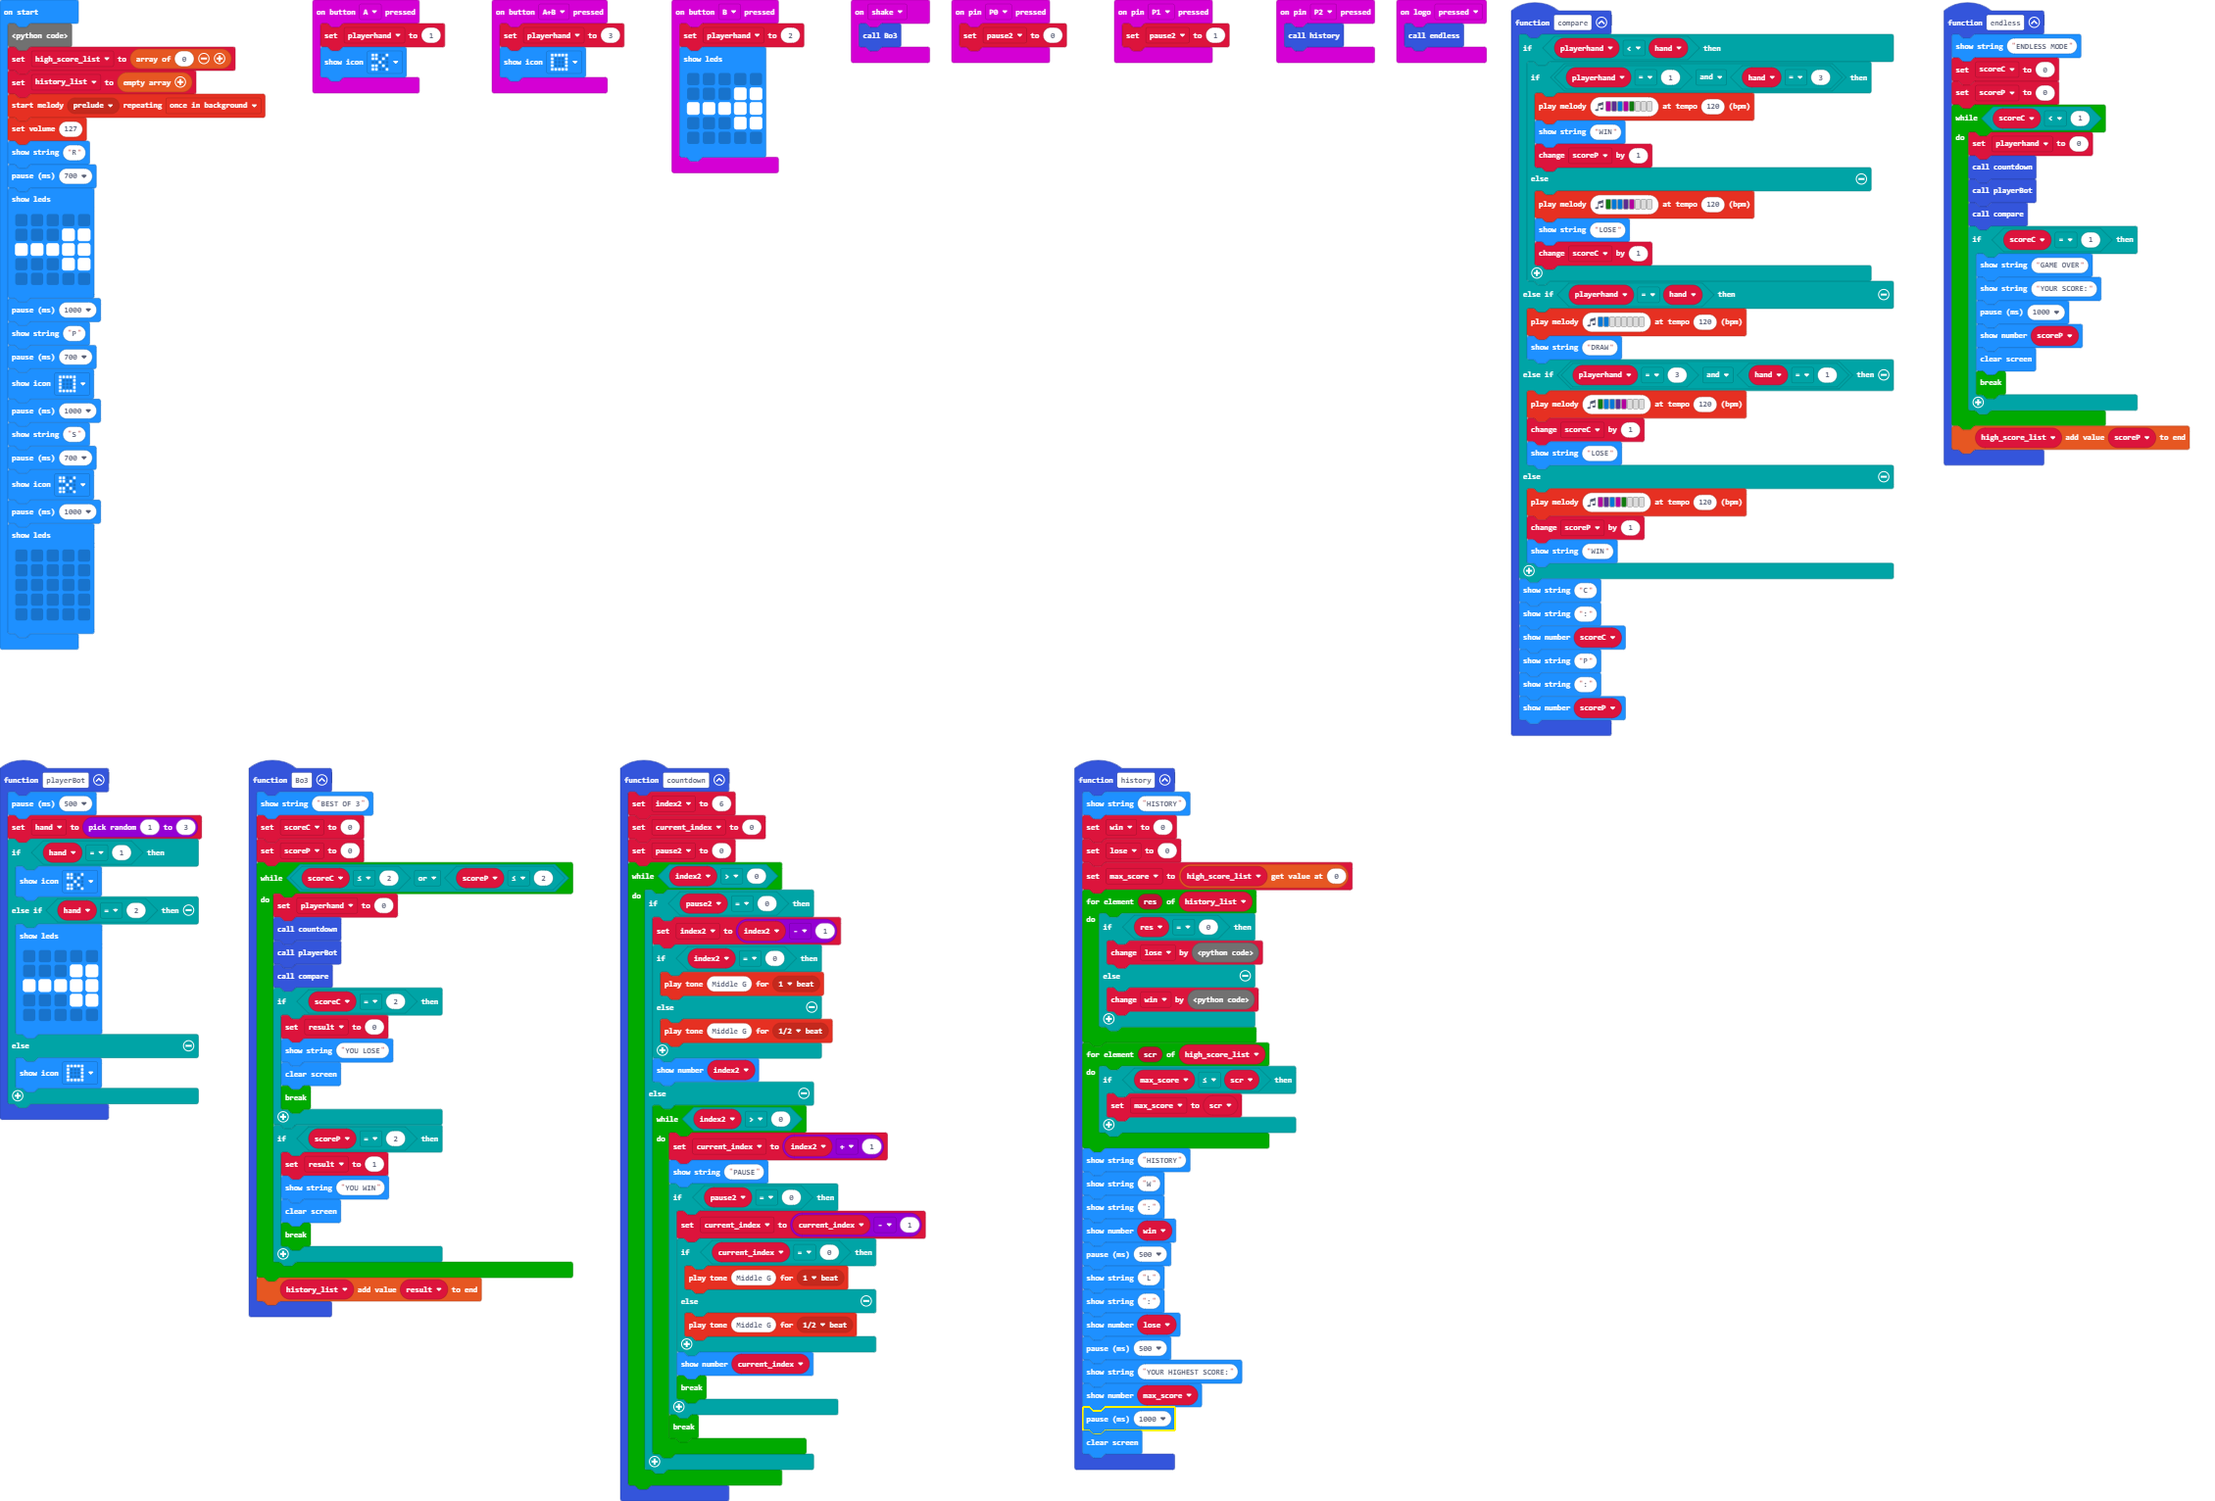
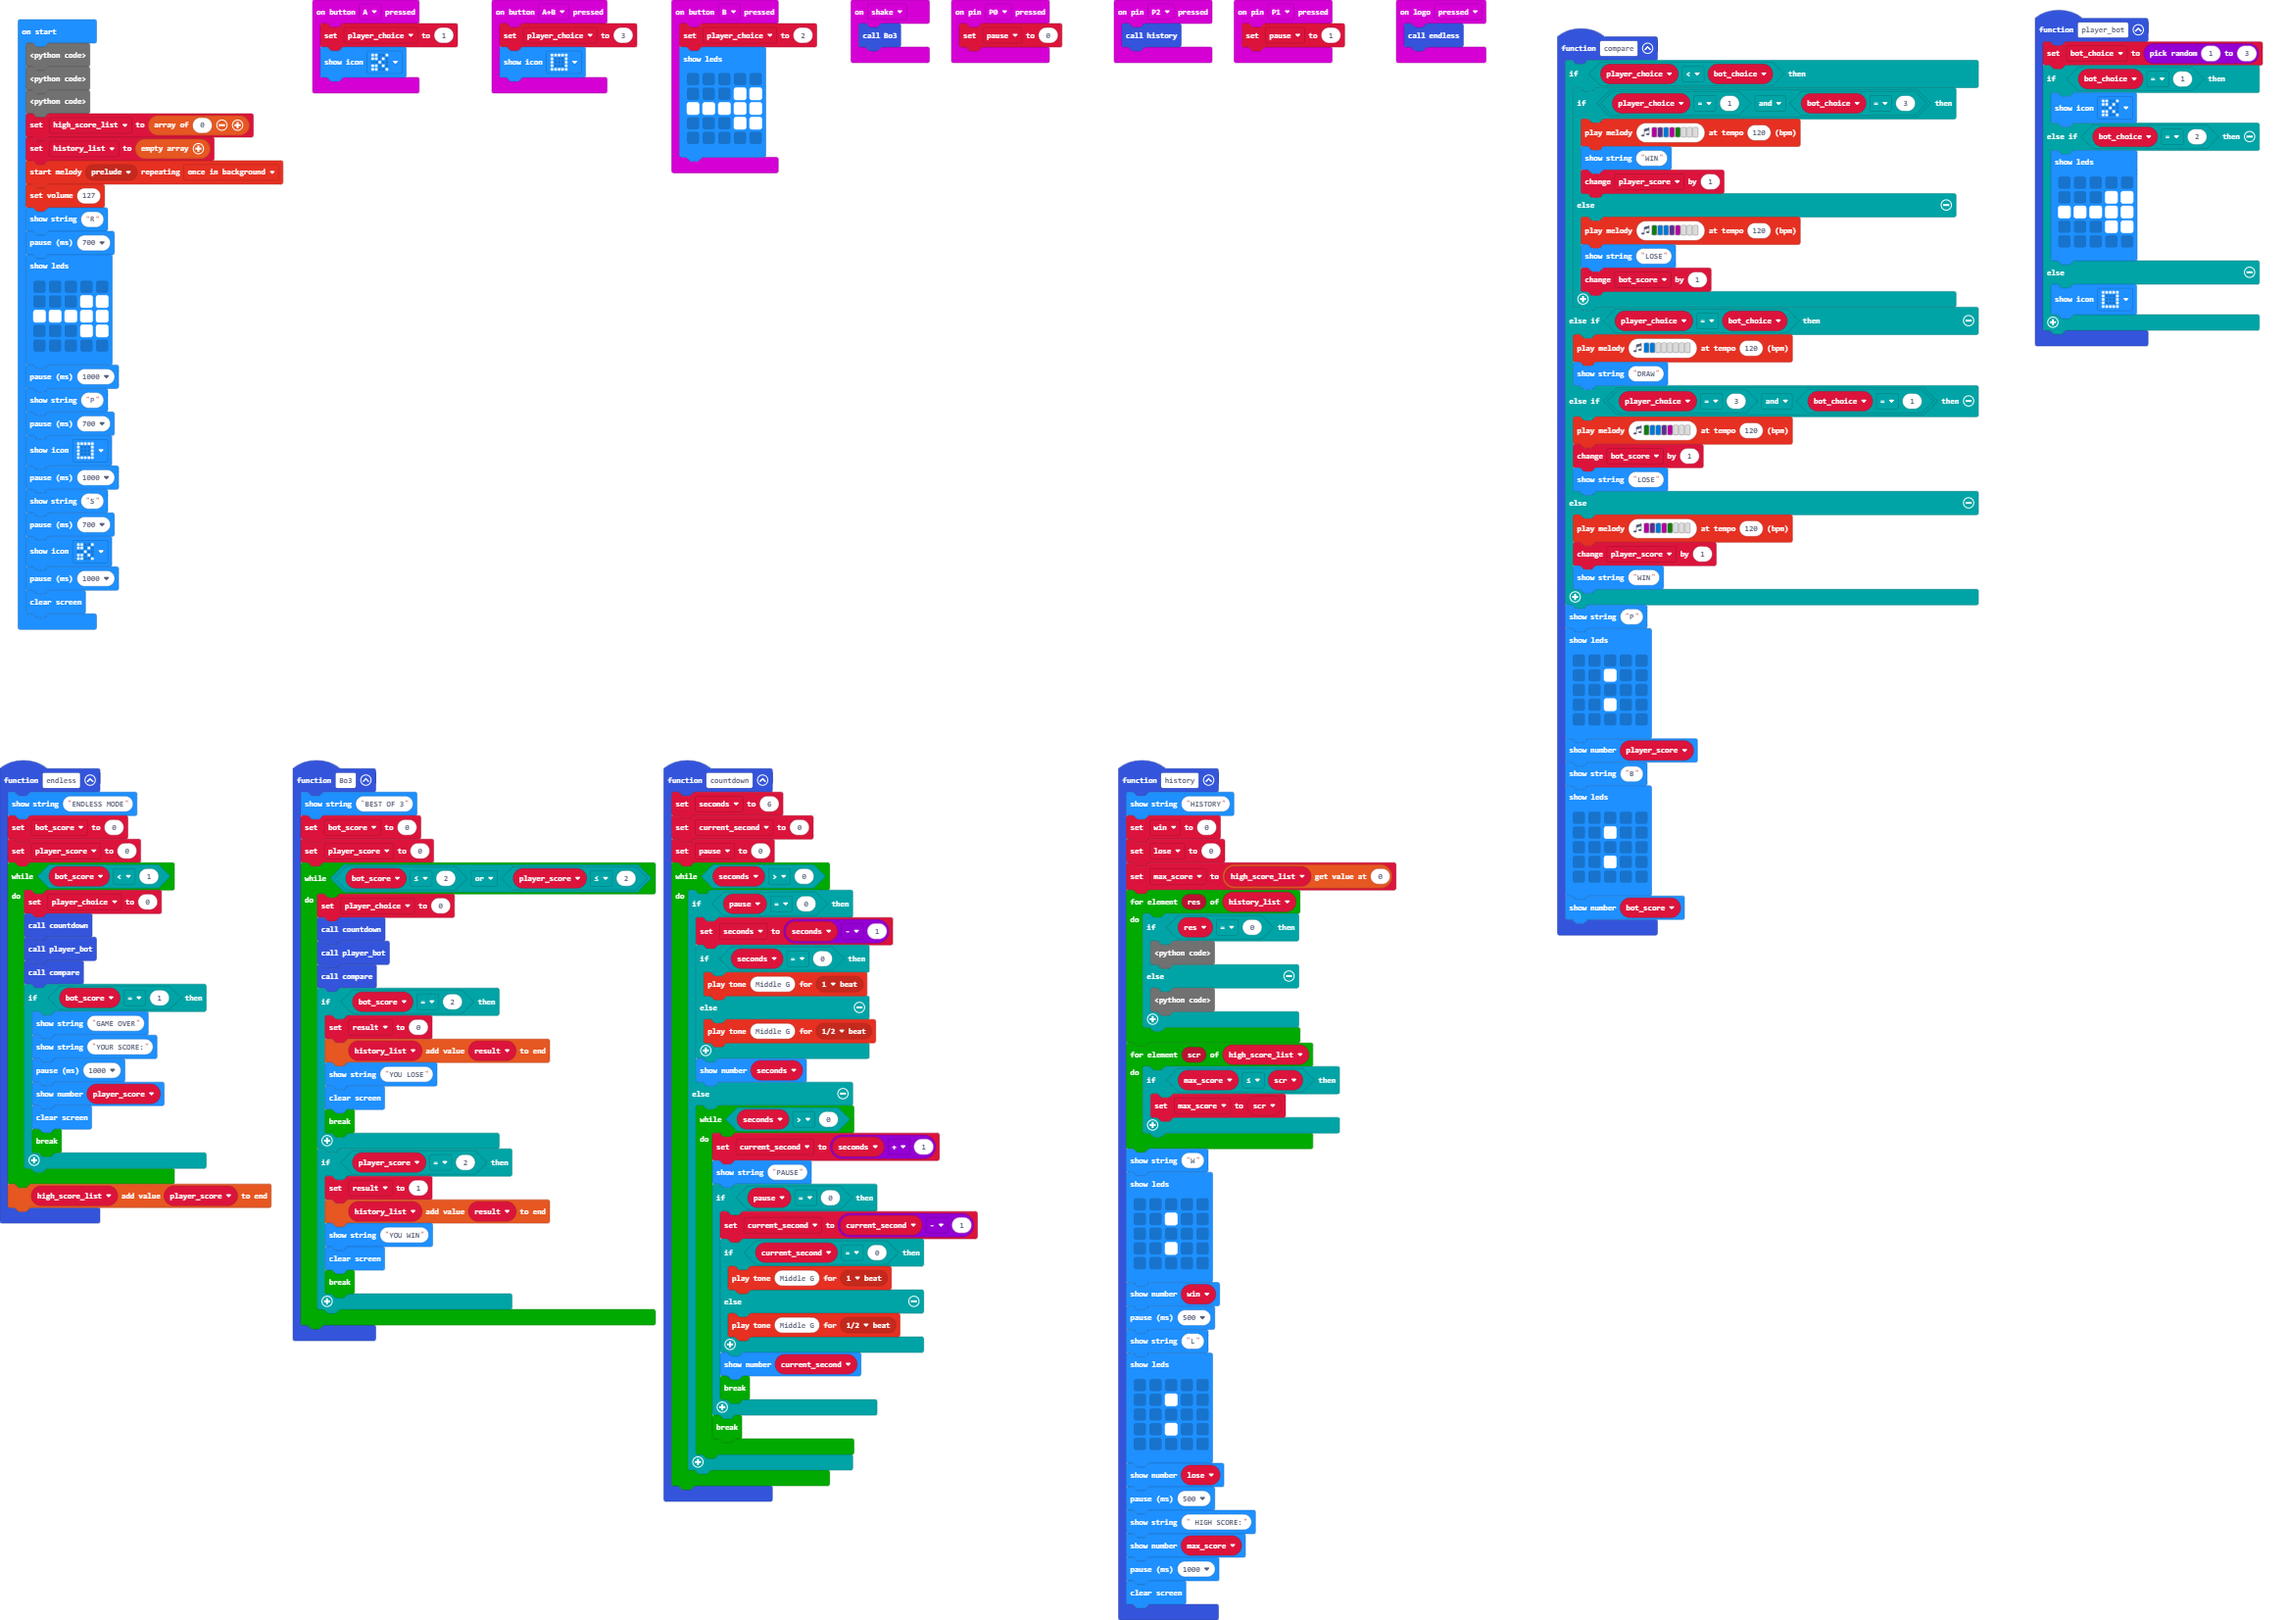
change variable name

Changed region(s): [[0.0, 0.0, 0.9912, 1.0], [0.4646, 0.4602, 0.6195, 1.0]]

diff --git a/main.ts b/main.ts
@@ -1,78 +1,8 @@
-input.onPinPressed(TouchPin.P0, function () {
-    pause2 = 0
-})
-function compare () {
-    if (playerhand < hand) {
-        if (playerhand == 1 && hand == 3) {
-            music.playMelody("C D E C G - - - ", 120)
-            basic.showString("WIN")
-            scoreP += 1
-        } else {
-            music.playMelody("G E E D C - - - ", 120)
-            basic.showString("LOSE")
-            scoreC += 1
-        }
-    } else if (playerhand == hand) {
-        music.playMelody("E E - - - - - - ", 120)
-        basic.showString("DRAW")
-    } else if (playerhand == 3 && hand == 1) {
-        music.playMelody("G E E D C - - - ", 120)
-        scoreC += 1
-        basic.showString("LOSE")
-    } else {
-        music.playMelody("C D E C G - - - ", 120)
-        scoreP += 1
-        basic.showString("WIN")
-    }
-    basic.showString("C")
-    basic.showString(":")
-    basic.showNumber(scoreC)
-    basic.showString("P")
-    basic.showString(":")
-    basic.showNumber(scoreP)
-}
-function countdown () {
-    index2 = 6
-    current_index = 0
-    pause2 = 0
-    while (index2 > 0) {
-        if (pause2 == 0) {
-            index2 = index2 - 1
-            if (index2 == 0) {
-                music.playTone(392, music.beat(BeatFraction.Whole))
-            } else {
-                music.playTone(392, music.beat(BeatFraction.Half))
-            }
-            basic.showNumber(index2)
-        } else {
-            while (index2 > 0) {
-                current_index = index2 + 1
-                basic.showString("PAUSE")
-                if (pause2 == 0) {
-                    current_index = current_index - 1
-                    if (current_index == 0) {
-                        music.playTone(392, music.beat(BeatFraction.Whole))
-                    } else {
-                        music.playTone(392, music.beat(BeatFraction.Half))
-                    }
-                    basic.showNumber(current_index)
-                    break;
-                }
-                break;
-            }
-        }
-    }
-}
-input.onButtonPressed(Button.A, function () {
-    playerhand = 1
-    basic.showIcon(IconNames.Scissors)
-})
-function playerBot () {
-    basic.pause(500)
-    hand = randint(1, 3)
-    if (hand == 1) {
+function player_bot () {
+    bot_choice = randint(1, 3)
+    if (bot_choice == 1) {
         basic.showIcon(IconNames.Scissors)
-    } else if (hand == 2) {
+    } else if (bot_choice == 2) {
         basic.showLeds(`
             . . . . .
             . . . # #
@@ -84,11 +14,92 @@ function playerBot () {
         basic.showIcon(IconNames.Square)
     }
 }
+input.onPinPressed(TouchPin.P0, function () {
+    pause2 = 0
+})
+function compare () {
+    if (player_choice < bot_choice) {
+        if (player_choice == 1 && bot_choice == 3) {
+            music.playMelody("C D E C G - - - ", 120)
+            basic.showString("WIN")
+            player_score += 1
+        } else {
+            music.playMelody("G E E D C - - - ", 120)
+            basic.showString("LOSE")
+            bot_score += 1
+        }
+    } else if (player_choice == bot_choice) {
+        music.playMelody("E E - - - - - - ", 120)
+        basic.showString("DRAW")
+    } else if (player_choice == 3 && bot_choice == 1) {
+        music.playMelody("G E E D C - - - ", 120)
+        bot_score += 1
+        basic.showString("LOSE")
+    } else {
+        music.playMelody("C D E C G - - - ", 120)
+        player_score += 1
+        basic.showString("WIN")
+    }
+    basic.showString("P")
+    basic.showLeds(`
+        . . . . .
+        . . # . .
+        . . . . .
+        . . # . .
+        . . . . .
+        `)
+    basic.showNumber(player_score)
+    basic.showString("B")
+    basic.showLeds(`
+        . . . . .
+        . . # . .
+        . . . . .
+        . . # . .
+        . . . . .
+        `)
+    basic.showNumber(bot_score)
+}
+function countdown () {
+    seconds = 6
+    current_second = 0
+    pause2 = 0
+    while (seconds > 0) {
+        if (pause2 == 0) {
+            seconds = seconds - 1
+            if (seconds == 0) {
+                music.playTone(392, music.beat(BeatFraction.Whole))
+            } else {
+                music.playTone(392, music.beat(BeatFraction.Half))
+            }
+            basic.showNumber(seconds)
+        } else {
+            while (seconds > 0) {
+                current_second = seconds + 1
+                basic.showString("PAUSE")
+                if (pause2 == 0) {
+                    current_second = current_second - 1
+                    if (current_second == 0) {
+                        music.playTone(392, music.beat(BeatFraction.Whole))
+                    } else {
+                        music.playTone(392, music.beat(BeatFraction.Half))
+                    }
+                    basic.showNumber(current_second)
+                    break;
+                }
+                break;
+            }
+        }
+    }
+}
+input.onButtonPressed(Button.A, function () {
+    player_choice = 1
+    basic.showIcon(IconNames.Scissors)
+})
 input.onPinPressed(TouchPin.P2, function () {
     history()
 })
 input.onButtonPressed(Button.AB, function () {
-    playerhand = 3
+    player_choice = 3
     basic.showIcon(IconNames.Square)
 })
 function history () {
@@ -98,9 +109,9 @@ function history () {
     max_score = high_score_list[0]
     for (let res of history_list) {
         if (res == 0) {
-            lose += _py.py_array_count(history_list, res)
+            lose = _py.py_array_count(history_list, res)
         } else {
-            win += _py.py_array_count(history_list, res)
+            win = _py.py_array_count(history_list, res)
         }
     }
     for (let scr of high_score_list) {
@@ -108,22 +119,33 @@ function history () {
             max_score = scr
         }
     }
-    basic.showString("HISTORY")
     basic.showString("W")
-    basic.showString(":")
+    basic.showLeds(`
+        . . . . .
+        . . # . .
+        . . . . .
+        . . # . .
+        . . . . .
+        `)
     basic.showNumber(win)
     basic.pause(500)
     basic.showString("L")
-    basic.showString(":")
+    basic.showLeds(`
+        . . . . .
+        . . # . .
+        . . . . .
+        . . # . .
+        . . . . .
+        `)
     basic.showNumber(lose)
     basic.pause(500)
-    basic.showString("YOUR HIGHEST SCORE:")
+    basic.showString(" HIGH SCORE:")
     basic.showNumber(max_score)
     basic.pause(1000)
     basic.clearScreen()
 }
 input.onButtonPressed(Button.B, function () {
-    playerhand = 2
+    player_choice = 2
     basic.showLeds(`
         . . . . .
         . . . # #
@@ -137,27 +159,28 @@ input.onPinPressed(TouchPin.P1, function () {
 })
 function Bo3 () {
     basic.showString("BEST OF 3")
-    scoreC = 0
-    scoreP = 0
-    while (scoreC <= 2 || scoreP <= 2) {
-        playerhand = 0
+    bot_score = 0
+    player_score = 0
+    while (bot_score <= 2 || player_score <= 2) {
+        player_choice = 0
         countdown()
-        playerBot()
+        player_bot()
         compare()
-        if (scoreC == 2) {
+        if (bot_score == 2) {
             result = 0
+            history_list.push(result)
             basic.showString("YOU LOSE")
             basic.clearScreen()
             break;
         }
-        if (scoreP == 2) {
+        if (player_score == 2) {
             result = 1
+            history_list.push(result)
             basic.showString("YOU WIN")
             basic.clearScreen()
             break;
         }
     }
-    history_list.push(result)
 }
 input.onGesture(Gesture.Shake, function () {
     Bo3()
@@ -167,37 +190,37 @@ input.onLogoEvent(TouchButtonEvent.Pressed, function () {
 })
 function endless () {
     basic.showString("ENDLESS MODE")
-    scoreC = 0
-    scoreP = 0
-    while (scoreC < 1) {
-        playerhand = 0
+    bot_score = 0
+    player_score = 0
+    while (bot_score < 1) {
+        player_choice = 0
         countdown()
-        playerBot()
+        player_bot()
         compare()
-        if (scoreC == 1) {
+        if (bot_score == 1) {
             basic.showString("GAME OVER")
             basic.showString("YOUR SCORE:")
             basic.pause(1000)
-            basic.showNumber(scoreP)
+            basic.showNumber(player_score)
             basic.clearScreen()
             break;
         }
     }
-    high_score_list.push(scoreP)
+    high_score_list.push(player_score)
 }
 let result = 0
 let max_score = 0
-let lose = 0
-let win = 0
-let current_index = 0
-let index2 = 0
-let scoreC = 0
-let scoreP = 0
-let hand = 0
-let playerhand = 0
+let current_second = 0
+let seconds = 0
+let bot_score = 0
+let player_score = 0
+let player_choice = 0
 let pause2 = 0
+let bot_choice = 0
 let high_score_list: number[] = []
 let history_list : number[] = []
+let win = 0
+let lose = 0
 high_score_list = [0]
 history_list = []
 music.startMelody(music.builtInMelody(Melodies.Prelude), MelodyOptions.OnceInBackground)
@@ -220,10 +243,4 @@ basic.showString("S")
 basic.pause(700)
 basic.showIcon(IconNames.Scissors)
 basic.pause(1000)
-basic.showLeds(`
-    . . . . .
-    . . . . .
-    . . . . .
-    . . . . .
-    . . . . .
-    `)
+basic.clearScreen()

diff --git a/main.py b/main.py
@@ -99,13 +99,12 @@ def history():
     max_score = high_score_list[0]
     for res in history_list:
         if res == 0:
-            lose += history_list.count(res)
+            lose = history_list.count(res)
         else:
-            win += history_list.count(res)
+            win = history_list.count(res)
     for scr in high_score_list:
-        if max_score < scr:
+        if max_score <= scr:
             max_score = scr
-    basic.show_string("HISTORY")
     basic.show_string("W")
     basic.show_string(":")
     basic.show_number(win)
@@ -147,15 +146,16 @@ def Bo3():
         compare()
         if scoreC == 2:
             result = 0
+            history_list.append(result)
             basic.show_string("YOU LOSE")
             basic.clear_screen()
             break
         if scoreP == 2:
             result = 1
+            history_list.append(result)
             basic.show_string("YOU WIN")
             basic.clear_screen()
             break
-    history_list.append(result)
 
 def on_gesture_shake():
     Bo3()
@@ -166,11 +166,12 @@ def on_logo_pressed():
 input.on_logo_event(TouchButtonEvent.PRESSED, on_logo_pressed)
 
 def endless():
-    global scoreC, scoreP
+    global scoreC, scoreP, playerhand
     basic.show_string("ENDLESS MODE")
     scoreC = 0
     scoreP = 0
     while scoreC < 1:
+        playerhand = 0
         countdown()
         playerBot()
         compare()
@@ -184,8 +185,6 @@ def endless():
     high_score_list.append(scoreP)
 result = 0
 max_score = 0
-lose = 0
-win = 0
 current_index = 0
 index2 = 0
 scoreC = 0
@@ -195,6 +194,8 @@ playerhand = 0
 pause2 = 0
 high_score_list: List[number] = []
 history_list: List[number] = []
+win = 0
+lose = 0
 high_score_list = [0]
 history_list = []
 music.start_melody(music.built_in_melody(Melodies.PRELUDE),
